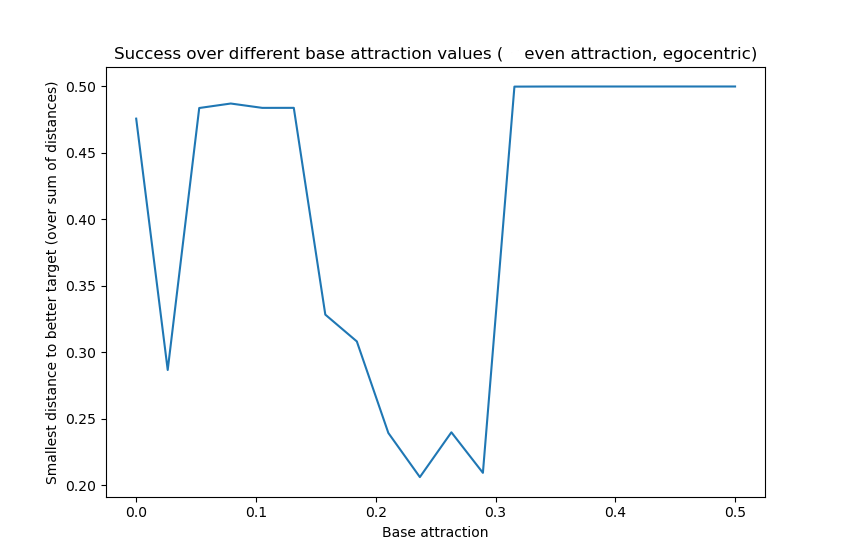
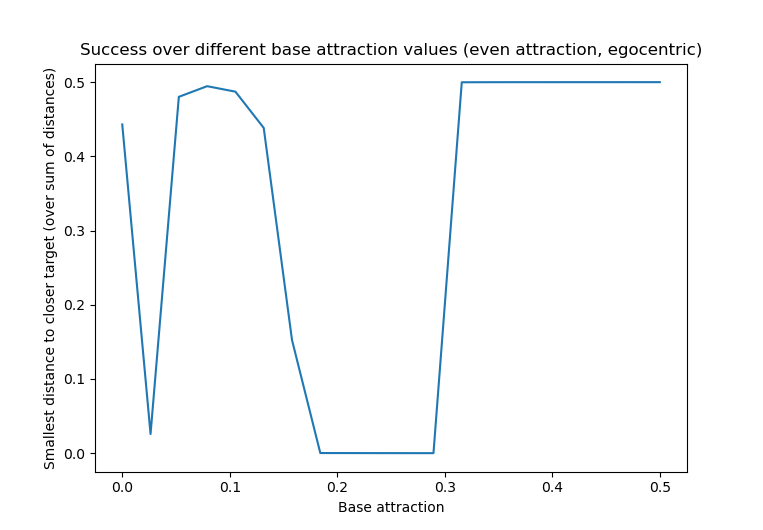
the rest of the success plots for the report

diff --git a/simulations.py b/simulations.py
@@ -82,12 +82,18 @@ for i in range(N):
 allocentricFlag = [1]
 
 # attraction vector, first are attraction for targets, then agents
-h0s = [[0.45,0.45]]
+h0s = []
+attrac_for_plot = []
+for x in range(30):
+    attrac = [0.1+x*0.03,0.11+x*0.03]
+    h0s.append(attrac)
+    attrac_for_plot.append(attrac[0])
+
 
 h_b = [0.2]
 
 # width of the gauss bump 
-sigma = np.linspace(0.1,0.6, num=20)
+sigma = [0.5]
 
 # noise parameter 
 beta = [100]
@@ -117,8 +123,8 @@ for orientation in range(len(allocentricFlag)):
         h0 = h0s[h]
         for hb in range(len(h_b)):
             for s in range(len(sigma)):
-                print(f"sigma number: {s}")
                 for b in range(len(beta)):
+                    print(f"attraction number: {h}")
                     if plot_traj == True:
                         x_sums = np.zeros((1,51))
                         y_sums = np.zeros((1,51))
@@ -128,7 +134,7 @@ for orientation in range(len(allocentricFlag)):
                         headings, xPos, yPos, targetsx, targetsy = simulate_ringattractor.simulate_ring_attractor(N,L,T,ntargets,nagents,allocentricFlag[orientation],periodicflag,rEgo,rEgoTarget,Egonumber,
                                     distf,adistf,J,beta[b],h0,h_b[hb],dt,v0,v0t,sigma[s],hColl,rColl,
                                     initialx,initialy,initialxt,initialyt,False,False)
-                        success_measure = simulation_metrics.get_min_distance(xPos, yPos, targetsx, targetsy, False, 1)
+                        success_measure = simulation_metrics.get_min_distance(xPos, yPos, targetsx, targetsy, True, 1)
                         if plot_traj == True:
                             x_sliced = xPos[:,::100]
                             y_sliced = yPos[:,::100]
@@ -136,24 +142,24 @@ for orientation in range(len(allocentricFlag)):
                             y_sums = y_sums + y_sliced
                         min_distance.append(success_measure)
                     mean_distance.append(np.mean(min_distance))
-            if plot_traj == True:
-                x_trajs[hb,:] = x_sums/n_samples
-                y_trajs[hb,:] = y_sums/n_samples
+                    if plot_traj == True:
+                        x_trajs[b,:] = x_sums/n_samples
+                        y_trajs[b,:] = y_sums/n_samples
 
 # plotting the trajectories over a certain number of samples
 if plot_traj == True:
     plt.figure(1)
     simulation_metrics.plot_trajectories(x_trajs,y_trajs,initialxt,initialyt,
                                      ['powderblue','deepskyblue','blue','navy','slateblue','darkviolet'],L,
-                                     "Average trajectories across hb values from 0 to 0.05 from 20 samples")
+                                     "Average trajectories across beta values from 20 to 120 from 1 samples")
 
 
 # plot x axis as param of interest, plot y axis as success measure
 plt.figure(2)
-plt.plot(sigma, mean_distance)
-plt.title("Success over different sigma values (even attraction, allocentric)")
-plt.xlabel("Sigma")
-plt.ylabel("Smallest distance to closer target (over sum of distances)")
+plt.plot(attrac_for_plot, mean_distance)
+plt.title("Success over different attraction values (uneven attraction, allocentric)")
+plt.xlabel("Attraction of both targets")
+plt.ylabel("Smallest distance to better target (over sum of distances)")
 plt.show()
 
 

diff --git a/simulate_ringattractor.py b/simulate_ringattractor.py
@@ -72,6 +72,7 @@ def simulate_ring_attractor(N,L,T,ntargets,nagents,allocentricFlag,periodic_flag
                     ampl = hColl
                 if distAB < rEgo:
                     Egocentric[a] = Egocentric[a]+1
+                    print("entered switch")
                 angleAB = np.atan2(dy,dx)
                 if angleAB < 0:
                     angleAB = angleAB + 2*np.pi
@@ -100,6 +101,7 @@ def simulate_ring_attractor(N,L,T,ntargets,nagents,allocentricFlag,periodic_flag
                 distAB = np.sqrt(dx**2 + dy**2)
                 if distAB < rEgoTarget:
                     Egocentric[a] = Egocentric[a] + 1
+                    print("entered switch")
                 
                 ampl = h0[ttarg]
                 if distf != 0: 
